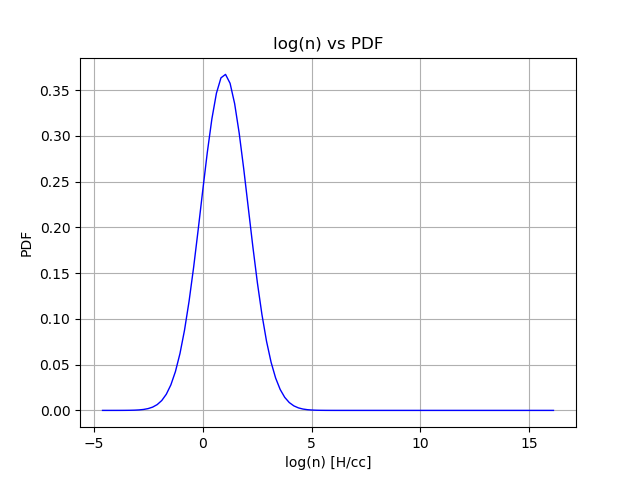
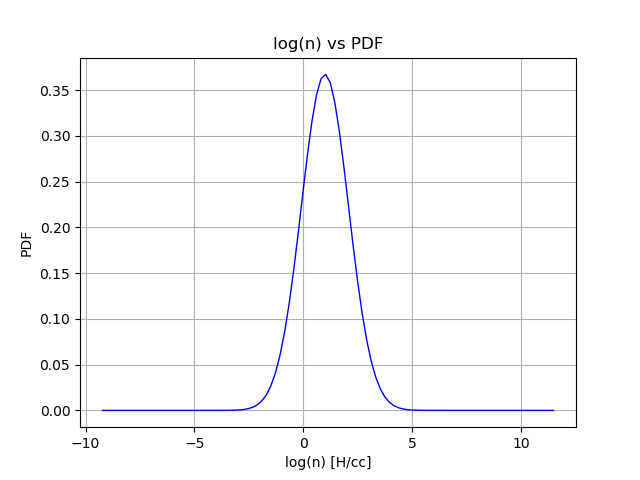
minor improvements
changes n_H_range from 100000 to 100 (it's better), and the corresponding new plots are added

diff --git a/h2_density.py b/h2_density.py
@@ -45,7 +45,7 @@ if __name__=='__main__':
     m_p = 1.672621777e-24  # g
     T_mean = 10.    #K
     mach_no = 5.
-    n_H_range = 10000
+    n_H_range = 100
     n_H_mean = 100    # [H] cm^-3
     vel_disp = np.sqrt(np.log(1 + ((0.3 * mach_no)**2))) #vel_disp in pdf
     x_mean = 1
@@ -91,7 +91,6 @@ if __name__=='__main__':
     plt.title('log(lambda_Jeans) vs log(n)')
     plt.savefig('log(lambda_Jeans)vsX_fromcode.png'.format(i=i))
     plt.clf()
-
     #plotting X_H2 vs log(n_H)
     plt.plot(x, X_H2, lw=1, color='b')
     plt.xlabel('log(n_H) [H/cc]')
@@ -99,3 +98,12 @@ if __name__=='__main__':
     plt.grid(b=True, which='both', axis='both')
     plt.title('log(n_H) vs X_H2')
     plt.savefig('log(n_H)vsX_H2.png'.format(i=i))
+    plt.clf()
+    #plotting X_H2 vs log(n_H2)
+    plt.plot(np.log(n_H2), X_H2, lw=1, color='b')
+    plt.xlabel('log(n_H2) [H2/cc]')
+    plt.ylabel('X_H2')
+    plt.grid(b=True, which='both', axis='both')
+    plt.title('log(n_H2) vs X_H2')
+    plt.savefig('log(n_H2)vsX_H2.png'.format(i=i))
+    plt.clf()
